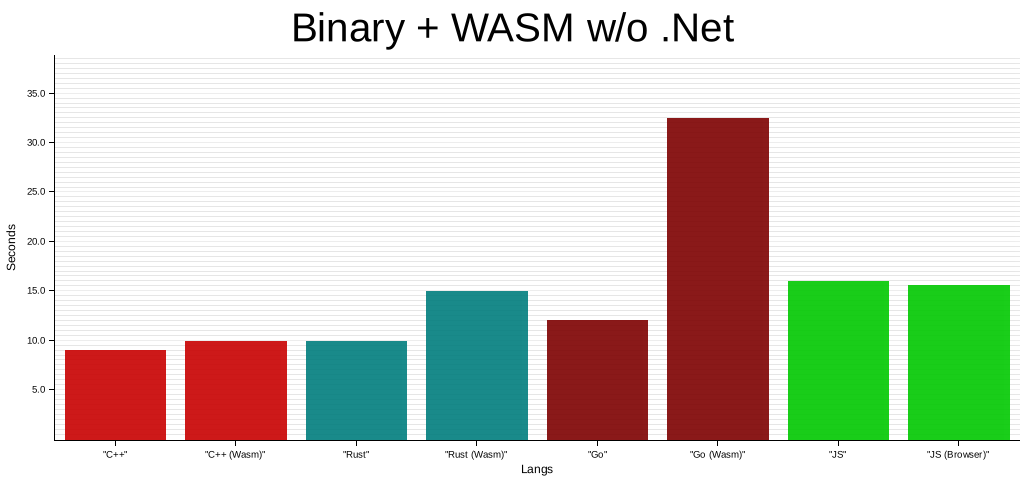
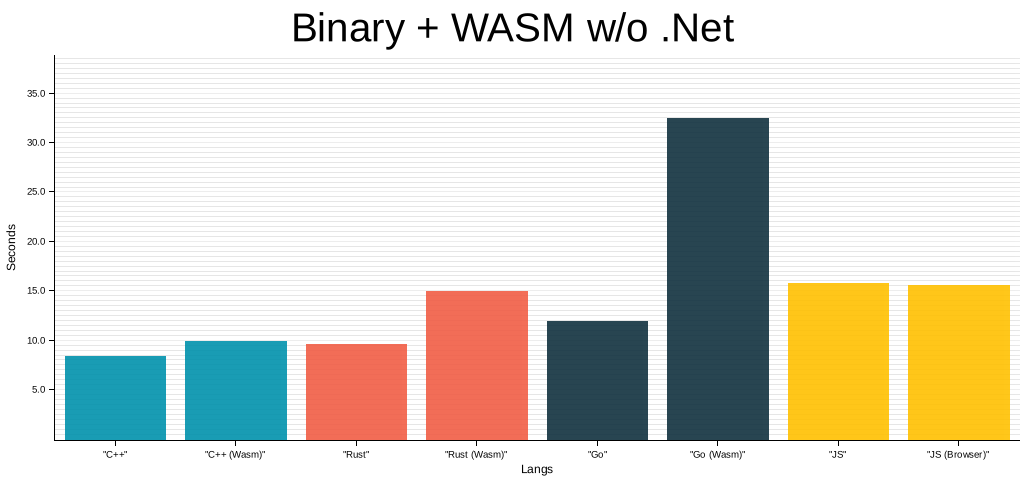
Update epam colors on histograms

Changed region(s): [[0.0625, 0.2188, 1.0, 0.9375]]

diff --git a/tools/wasm-collector/src/index.js b/tools/wasm-collector/src/index.js
@@ -205,7 +205,7 @@ async function main(jsonPath, markdownPath) {
   let langs = [
     'cpp', 'rust',
     'js', 'golang', 
-    'dotnet_aot','dotnet_no_aot'
+    'dotnet_aot','dotnet_no_aot', 'dotnet-uno'
   ];
 
   let langsMap = {
@@ -214,7 +214,8 @@ async function main(jsonPath, markdownPath) {
     'golang': 'Go (Wasm)',
     'rust': 'Rust (Wasm)',
     'dotnet_aot': 'Blazor (AOT)',
-    'dotnet_no_aot': 'Blazor'
+    'dotnet_no_aot': 'Blazor',
+    'dotnet-uno': 'UNO'
   }
 
   let metrics = {};

diff --git a/tools/plotter/src/models.rs b/tools/plotter/src/models.rs
@@ -19,22 +19,27 @@ pub struct LangDef {
 }
 
 fn map_color(key: &str) -> RGBColor {
-    let dotnet_color = RGBColor(0, 125, 200);
+    let dotnet_color = RGBColor(171, 219, 221);
+    let cpp_color = RGBColor(0, 145, 172);
+    let go_color = RGBColor(16, 48, 62);
+    let js_color = RGBColor(255, 192, 0);
+    let rust_color = RGBColor(241, 93, 69);
+
 
     if key.to_lowercase().contains("c++") {
-        return RGBColor(200, 0, 0);
+        return cpp_color;
     }
 
     if key.to_lowercase().contains("go") {
-        return RGBColor(125, 0, 0);
+        return go_color;
     }
 
     if key.to_lowercase().contains("js") {
-        return RGBColor(0, 200, 0);
+        return js_color;
     }
 
     if key.to_lowercase().contains("rust") {
-        return RGBColor(0, 125, 125);
+        return rust_color;
     }
 
     if key.to_lowercase().contains("blazor") {
@@ -42,6 +47,10 @@ fn map_color(key: &str) -> RGBColor {
     }
 
     if key.to_lowercase().contains(".net") {
+        return dotnet_color;
+    }
+
+    if key.to_lowercase().contains("uno") {
         return dotnet_color;
     }
 
@@ -100,7 +109,7 @@ pub fn combine(a: &[LangDef], b: &[LangDef]) -> Vec<LangDef> {
     let mut res = vec![];
 
     // use to get desired order
-    let names = ["c++", "rust", "go", "js", ".net", "blazor"];
+    let names = ["c++", "rust", "go", "js", ".net", "blazor", "uno"];
 
     for n in names {
         for i in a.iter().filter(|e| e.name.to_lowercase().contains(n)) {
@@ -134,7 +143,7 @@ pub fn exclude(a: &[LangDef], exclude_list: &[&str]) -> Vec<LangDef> {
 fn read_map_metrics<T: DeserializeOwned, M: Fn(&str, &T) -> LangDef>(file: &str, mapper_fn: M) -> Result<Vec<LangDef>, String> {
     let map = read_metrics::<T>(file)?;
 
-    let langs = ["c++", "rust", "go", "js", ".net", "blazor"];
+    let langs = ["c++", "rust", "go", "js", ".net", "blazor", "uno"];
 
     let mut res = vec![];
 

diff --git a/tools/plotter/src/main.rs b/tools/plotter/src/main.rs
@@ -23,7 +23,7 @@ fn main() -> Result<(), Box<dyn std::error::Error>> {
     let binary = models::read_binary_metrics(&args[1])?;
     let wasm = models::read_wasm_metrics(&args[2])?;
     let combined = models::combine(&binary, &wasm);
-    let combined_wo_blazor = models::exclude(&combined, &["blazor", ".net"]);
+    let combined_wo_blazor = models::exclude(&combined, &["blazor", ".net", "uno"]);
 
     let histograms_path = PathBuf::from(&args[3]);
 
